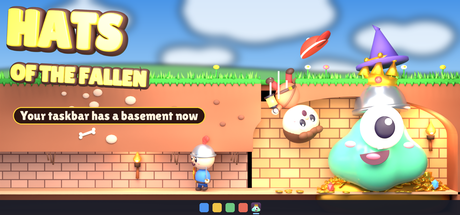
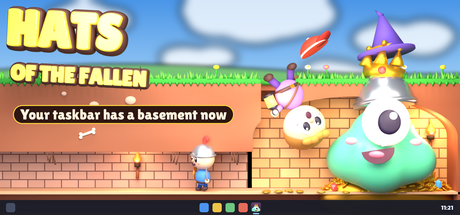
Mila #30: header v2 ronde 2 (Gloop en held groter, minder kiezels, grotere ondertitel, klok in taakbalk), LEESMIJ; blinde test wacht op tegoed
Claude-Session: https://claude.ai/code/session_01RMWUyhbH2MK2ZqCSq2eeTz

diff --git a/ontwerp/steam/capsule-v2/header_v2.py b/ontwerp/steam/capsule-v2/header_v2.py
@@ -36,7 +36,7 @@ ZTOP = E("ZTOP", "8.35"); ZBOT = ZTOP - HOOG
 MV = E("MV", "4.72")                 # graslijn (maaiveld)
 KX0, KX1, KTOP = 1.0, 9.9, E("KTOP", "4.15")   # schatkamer
 KRECHT = 2.4                          # tot hier recht, daarboven de boog
-GX = E("GX", "6.4")                   # Gloop
+GX = E("GX", "6.55")                   # Gloop
 SX0, SX1 = 1.35, 2.85                 # gat waar de held door valt
 GANGTOP = 1.75
 
@@ -127,7 +127,7 @@ bv = aarde.modifiers.new("rond", "BEVEL"); bv.width = 0.15; bv.segments = 4; bv.
 # achterwanden: kamer licht metselwerk, gang koeler
 w = blok("kamerwand", ((KX0 + KX1) / 2, 1.55, (KTOP + 0.2) / 2), (KX1 - KX0 + 0.4, 0.1, KTOP + 0.4), KAMERWAND)
 blok("gangwand", ((-12 + KX0) / 2, 1.55, GANGTOP / 2), (KX0 + 12, 0.1, GANGTOP + 0.2), GANGWAND)
-blok("valwand", ((SX0 + SX1) / 2, 1.55, (KTOP + MV) / 2), (SX1 - SX0 + 0.2, 0.1, MV - KTOP + 0.4), aardemat("valwand", "7a4232", "93573f"))
+blok("valwand", ((SX0 + SX1) / 2, 1.55, (KTOP + MV) / 2), (SX1 - SX0 + 0.2, 0.1, MV - KTOP + 0.4), AARDE_SNIJ)
 blok("vloer", (0, 0.8, -0.05), (BREED + 8, 1.6, 0.1), VLOER)
 
 # stenen, botjes en wortels in de aarde (minder dingen dan v1: alleen in de lege aarde links onder de titel en tussen)
@@ -136,7 +136,7 @@ def vrij(x, z):
     if SX0 - 0.4 < x < SX1 + 0.4: return False
     if z < GANGTOP + 0.35 and x < KX0 + 0.3: return False
     return z < MV - 0.35
-for i in range(60):
+for i in range(30):
     x = random.uniform(-9.8, 9.8); z = random.uniform(ZBOT + 0.2, MV - 0.3)
     if not vrij(x, z): continue
     r = random.uniform(0.09, 0.22)
@@ -225,7 +225,7 @@ ns = {"bpy": bpy, "g": g, "math": math, "sc": sc, "VERSIE": 1, "HOEDEN": int(E("
       "STAND": os.environ.get("GSTAND", "rust"), "PLUIM_KNAK": False}
 exec(bron[bron.index("def bol("):begin], ns)
 exec(bron[begin:eind], ns)
-GS = E("GS", "2.0")
+GS = E("GS", "2.2")
 GZ = E("GZ", "0.72")
 anker = bpy.data.objects.new("gloop_anker", None); sc.collection.objects.link(anker)
 for o in [o for o in bpy.data.objects if o not in voor]:
@@ -239,17 +239,23 @@ anker.rotation_euler = (math.radians(E("GKANTEL", "-6")), 0, math.radians(E("GDR
 km = bpy.data.materials.get("kroon")
 if km:
     b = km.node_tree.nodes["Principled BSDF"]; b.inputs["Roughness"].default_value = 0.38
+# Gloop minder wit uitgeslagen in het felle licht: minder doorschijn, iets matter (alleen hier; gloop.py blijft gelijk)
+lm = bpy.data.materials.get("lijf")
+if lm:
+    b = lm.node_tree.nodes["Principled BSDF"]
+    for naam, w in (("Subsurface Weight", E("GSSS", "0.1")), ("Roughness", E("GRUW", "0.32"))):
+        if naam in b.inputs: b.inputs[naam].default_value = w
 # lichtring om zijn voet (gloopring.py: mint met wit hart), de kleur van Gloop op het goud
 bpy.ops.mesh.primitive_torus_add(major_radius=1.55, minor_radius=0.07, location=(GX, 0.15, GZ + 0.05))
 ring = bpy.context.object; ring.scale = (1.0, 0.42, 1.0); ring.visible_shadow = False
 kies(ring, g.mat("ring", "b8ffd8", emis=E("RING", "5.0")))
-lr = bpy.data.lights.new("ringlicht", "POINT"); lr.color = (0.55, 1.0, 0.75); lr.energy = E("RINGLICHT", "70"); lr.shadow_soft_size = 1.0
+lr = bpy.data.lights.new("ringlicht", "POINT"); lr.color = (0.55, 1.0, 0.75); lr.energy = E("RINGLICHT", "40"); lr.shadow_soft_size = 1.0
 lo = bpy.data.objects.new("ringlicht", lr); lo.location = (GX, -0.6, GZ + 0.4); sc.collection.objects.link(lo)
 
 # ---------- helden ----------
 import held, hoeden
 # 1. valt kop eerst door het gat de kamer in; zijn pet vliegt los
-HV = held.bouw("held", "vallen", plek=(E("HVX", "2.1"), 0.2, E("HVZ", "2.05")), draai=E("HVD", "20"), schaal=E("HVS", "1.9"), kleur=0)
+HV = held.bouw("held", "vallen", plek=(E("HVX", "2.1"), 0.2, E("HVZ", "1.75")), draai=E("HVD", "20"), schaal=E("HVS", "2.2"), kleur=int(E("HVKLEUR", "2")))   # paarse tuniek: los van de oranje stenen
 for o in list(sc.objects):
     if o.name.startswith("hoed_") and o.parent is not None and o.parent == HV:
         o.hide_render = True
@@ -257,9 +263,7 @@ for o in list(HV.children_recursive):
     if o.name.startswith("hoed"):
         o.hide_render = True
 hoeden.bouw(3, plek=(E("PETX", "3.7"), 0.0, E("PETZ", "6.2")), schaal=E("PETS", "1.6"), kantel=E("PETK", "-35"), draai=20)
-# bewegingsstreepjes boven de held (val), wit en zacht
-for dx, lz in [(-0.35, 0.9), (0.0, 1.2), (0.35, 0.8)]:
-    cil("streep", (E("HVX", "2.1") + dx, -0.2, E("HVZ", "2.05") + 2.0 + lz / 2), 0.035, lz, g.mat("streep", "fff6e0", emis=1.5), verts=8)
+# (bewegingsstreepjes weggelaten: op 2x lazen ze als stokjes door de held)
 # 2. in de gang loopt een ridder nietsvermoedend naar de kamer
 held.bouw("ridder", "stap2", plek=(E("RX", "-1.2"), 0.35, 0.0), draai=60, schaal=E("RS", "1.25"), gloed=40)
 
@@ -287,13 +291,13 @@ def lamp(naam, soort, loc, kleur, kracht, grootte=1.0, doel=(0, 0, 1.0)):
     o = bpy.data.objects.new(naam, d); o.location = loc; sc.collection.objects.link(o)
     o.rotation_euler = (Vector(doel) - Vector(loc)).to_track_quat("-Z", "Y").to_euler(); o.visible_camera = False
     return o
-lamp("sleutel", "AREA", (3.0, -12.0, 10.0), (1.0, 0.9, 0.78), E("SLEUTEL", "3800"), 10.0, (2.0, 0.5, 2.0))
+lamp("sleutel", "AREA", (3.0, -12.0, 10.0), (1.0, 0.9, 0.78), E("SLEUTEL", "3300"), 10.0, (2.0, 0.5, 2.0))
 lamp("vul", "AREA", (-6.0, -12.0, 3.0), (0.8, 0.88, 1.0), E("VUL", "1500"), 10.0, (-3.0, 0.5, 2.5))
 lamp("kamer", "AREA", (GX, -3.0, 3.6), (1.0, 0.82, 0.6), E("KAMERL", "350"), 4.0, (GX, 1.0, 1.4))
 lamp("titellamp", "AREA", (-5.0, -8.0, 9.0), (1.0, 0.97, 0.9), E("TITELL", "1400"), 5.0, (-5.0, -2.5, 6.0))
 lamp("zon", "SUN", (0, 0, 10), (1.0, 0.95, 0.85), E("ZON", "2.0"), 1.0, (1.0, 2.0, 0.0))
 sc.world = bpy.data.worlds.new("w"); sc.world.use_nodes = True
-bg = sc.world.node_tree.nodes["Background"]; bg.inputs["Color"].default_value = (0.55, 0.72, 1.0, 1); bg.inputs["Strength"].default_value = E("WERELD", "0.25")
+bg = sc.world.node_tree.nodes["Background"]; bg.inputs["Color"].default_value = (0.55, 0.72, 1.0, 1); bg.inputs["Strength"].default_value = E("WERELD", "0.2")
 
 # ---------- camera ----------
 cam = bpy.data.cameras.new("cam"); cam.sensor_fit = "HORIZONTAL"; cam.sensor_width = 36

diff --git a/ontwerp/steam/capsule-v2/samenstellen.py b/ontwerp/steam/capsule-v2/samenstellen.py
@@ -63,10 +63,13 @@ xi = x0 + len(kleuren) * (knop + gap) - int(1 * k)
 beeld.alpha_composite(ico, (xi, y0 - int(1 * k)))
 d.rounded_rectangle([xi + int(4 * k), H - int(4 * k), xi + knop - int(2 * k), H - int(2 * k)], radius=int(1 * k), fill=(140, 200, 255))
 
+fk = ImageFont.truetype(os.path.join(HIER, "..", "capsule-3d", "LilitaOne-Regular.ttf"), int(12 * k))
+d.text((W - int(14 * k), H - TB // 2), "11:21", font=fk, fill=(230, 236, 248), anchor="rm")
+d.rounded_rectangle([int(12 * k), y0, int(12 * k) + knop, y0 + knop], radius=int(4 * k), fill=(70, 78, 100))
 # ondertitel: donker pilletje onder de titel, in de aarde
 if ONDER:
-    f = ImageFont.truetype(os.path.join(HIER, "..", "capsule-3d", "LilitaOne-Regular.ttf"), int(float(os.environ.get("OT_MAAT", "25")) * k))
-    tx, ty = float(os.environ.get("OT_X", "26")) * k, float(os.environ.get("OT_Y", "214")) * k
+    f = ImageFont.truetype(os.path.join(HIER, "..", "capsule-3d", "LilitaOne-Regular.ttf"), int(float(os.environ.get("OT_MAAT", "29")) * k))
+    tx, ty = float(os.environ.get("OT_X", "26")) * k, float(os.environ.get("OT_Y", "210")) * k
     bb = d.textbbox((0, 0), ONDER, font=f)
     pw, ph = bb[2] - bb[0], bb[3] - bb[1]
     px, py = int(14 * k), int(8 * k)

diff --git a/ontwerp/steam/capsule-v2/LEESMIJ.md b/ontwerp/steam/capsule-v2/LEESMIJ.md
@@ -1,0 +1,16 @@
+# Steam-header v2 (Mila, 27 nov 2026, issue #30)
+
+Bestanden: `header-920x430.png` (de header), `header-460x215.png` (klein, om te kijken), `rechts-2x.png` (Gloop en de vallende held op 2x), `voor-na.png` (v1 boven, v2 onder).
+
+Maken: `<venv>/bin/python header_v2.py r.png 1840 860 28` (bpy 5.2.4, ±2,5 min op 2 kernen), dan `python3 samenstellen.py r.png header-920x430.png`. Render op 2x en verkleind: scherp zonder opschalen.
+
+## Het idee (keuzes van Sanne in #30)
+- Bovenaan een rustig bureaublad (lucht, wolken, heuvels), onderaan een taakbalk met het icoon van Hats; daartussen het hol als kelder, in de look van het speelscherm dat blind won. Ondertitel als concept: "Your taskbar has a basement now" (Thijs schrijft de echte tekst voor live).
+- Grote figuur: Gloop met zijn hoedentoren (helm, kroon, heksenhoed) op het goud, in een kamer van licht metselwerk.
+- De grap: een held valt kop eerst door een gat in het gras de kamer in, zijn rode pet vliegt los in de lucht. In de gang loopt de volgende ridder nietsvermoedend naar de kamer.
+- Feller en warmer dan v1, minder muur: lucht blauw, gras fel groen, aarde terracotta, kamer zandsteen, Gloop mint, held paars, ridder blauw.
+
+## Eigen toets (GEZIEN met Read, op 920, 460 en 2x)
+- Titel en ondertitel lezen op 460. Gloop, pet en vallende held lezen op 460; de laarzen omhoog zie je op 2x goed.
+- Frisse kijker (een losse Claude, blind tussen de drie concurrenten op 460, ronde v4): plek 3 van 4, na Spirit City en Rusty, vóór Desktop Defender. Letterlijk: "The taskbar hook is the only image that says 'lives on your desktop', but the scene is cramped and busy at this size." Tip: figuren groter, minder losse dingetjes, ondertitel groter. Daarna gedaan: Gloop ±10% en de held ±15% groter, de helft minder kiezels, ondertitel 25 naar 29. Dit is geen blinde test volgens regel 9.
+- Blinde test `organisatie/blindtest/sets/hats-header-v2.json`: run 45914452636 gaf geen uitslag, de ChatGPT-sleutel heeft geen tegoed (HTTP 429, GEZIEN in het log). Opnieuw starten zodra er tegoed is (skill `actions`, set `hats-header-v2`).
